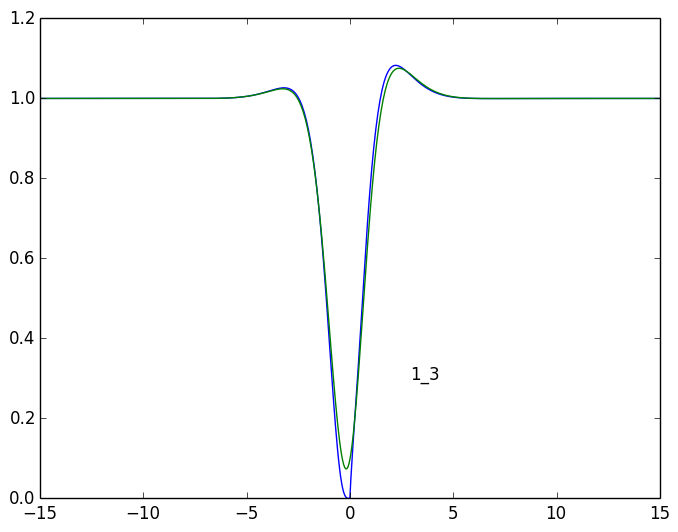
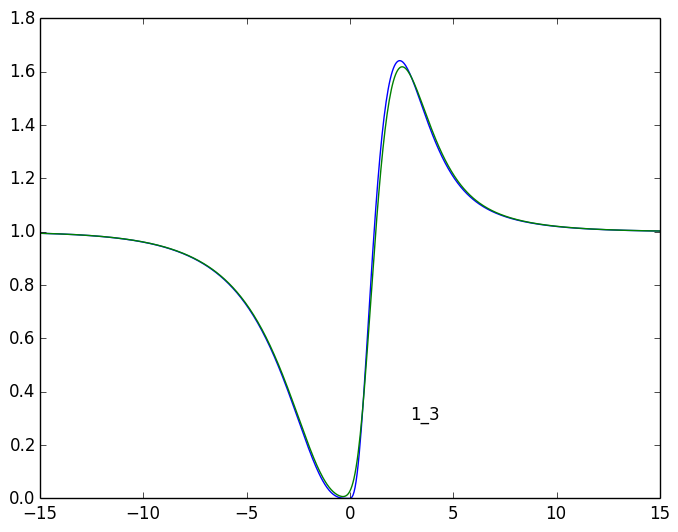
fixed ordering of state in markov expansion

diff --git a/markov.py b/markov.py
@@ -39,7 +39,7 @@ chargedbiexciton = 10
 
 class TransitionMatrix():
 
-    def __init__(self, te=1.0, th=0.4, tpe=0.8, tph=40.0, gsf=4.0, geh=10.0, t001=0.001):
+    def __init__(self, te=4.0, th=4.0, tpe=0.8, tph=10.0, gsf=1000.0, geh=1000.0, t001=0.001):
         # electron hole capture times.
         self.te = te
         self.th = th
@@ -52,7 +52,7 @@ class TransitionMatrix():
         self.geh = geh
 
         # lifetimes.
-        
+
         self.t001 = t001  # excited hole relaxation time.
         self.t110 = 1.66  # exciton lifetime.
         self.t120 = 1.9  # ground trion lifetime.

diff --git a/output/markov.md b/output/markov.md
@@ -3,211 +3,209 @@
 ![](spectral/1_3.png)
 
 ## tau > 0
-	  1 | a:    0.229 +   -0.522i 	 l:   -3.810 +    1.660i
-	  2 | a:    0.229 +    0.522i 	 l:   -3.810 +   -1.660i
-	  3 | a:    1.000 +    0.000i 	 l:    0.000 +    0.000i
-	  5 | a:    0.560 +    0.250i 	 l:   -2.645 +    0.168i
-	  6 | a:    0.560 +   -0.250i 	 l:   -2.645 +   -0.168i
-	  8 | a:   -1.311 +    0.697i 	 l:   -1.276 +   -0.703i
+	  1 | a:    7.341 +    4.342i 	 l:   -1.855 +    0.790i
+	  2 | a:    7.341 +   -4.342i 	 l:   -1.855 +   -0.790i
+	  4 | a:    1.000 +    0.000i 	 l:    0.000 +    0.000i
+	  5 | a:    0.919 +    0.000i 	 l:   -0.388 +    0.000i
+	  6 | a:    0.925 +    0.000i 	 l:   -0.674 +    0.000i
+	  8 | a:   -2.435 +    3.963i 	 l:   -1.069 +   -0.438i
 ## tau < 0
-	  2 | a:   -1.113 +    0.591i 	 l:   -3.810 +   -1.660i
-	  3 | a:    1.000 +   -0.000i 	 l:    0.000 +    0.000i
-	  5 | a:    2.314 +    7.699i 	 l:   -2.645 +    0.168i
-	  6 | a:    2.314 +   -7.699i 	 l:   -2.645 +   -0.168i
-	  7 | a:   -1.597 +    0.202i 	 l:   -1.276 +    0.703i
+	  4 | a:    1.000 +    0.000i 	 l:    0.000 +    0.000i
+	  6 | a:    0.193 +    0.000i 	 l:   -0.674 +    0.000i
+	  7 | a:    1.105 +    0.351i 	 l:   -1.069 +    0.438i
+	  8 | a:    1.105 +   -0.351i 	 l:   -1.069 +   -0.438i
 
 # 3_5
 ![](spectral/3_5.png)
 
 ## tau > 0
-	  2 | a:   -1.878 +    2.789i 	 l:   -3.810 +   -1.660i
-	  3 | a:    1.000 +   -0.000i 	 l:    0.000 +    0.000i
-	  5 | a:    0.356 +    2.026i 	 l:   -2.645 +    0.168i
-	  6 | a:    0.356 +   -2.026i 	 l:   -2.645 +   -0.168i
-	  7 | a:    0.936 +   -0.158i 	 l:   -1.276 +    0.703i
-	  8 | a:    0.936 +    0.158i 	 l:   -1.276 +   -0.703i
-	  9 | a:    0.172 +    0.000i 	 l:   -1.264 +    0.000i
+	  4 | a:    1.000 +    0.000i 	 l:    0.000 +    0.000i
 ## tau < 0
-	  1 | a:    2.188 +   -0.565i 	 l:   -3.810 +    1.660i
-	  2 | a:    2.188 +    0.565i 	 l:   -3.810 +   -1.660i
-	  3 | a:    1.000 +   -0.000i 	 l:    0.000 +    0.000i
-	  4 | a:    1.063 +    0.000i 	 l:   -3.483 +    0.000i
-	  6 | a:   -2.643 +    4.520i 	 l:   -2.645 +   -0.168i
-	  8 | a:   -0.579 +    1.089i 	 l:   -1.276 +   -0.703i
+	  1 | a:    0.488 +   -0.344i 	 l:   -1.855 +    0.790i
+	  2 | a:    0.488 +    0.344i 	 l:   -1.855 +   -0.790i
+	  4 | a:    1.000 +   -0.000i 	 l:    0.000 +    0.000i
+	  7 | a:   -0.384 +    0.715i 	 l:   -1.069 +    0.438i
 
 # 2_3
 ![](spectral/2_3.png)
 
 ## tau > 0
-	  1 | a:    0.626 +   -0.376i 	 l:   -3.810 +    1.660i
-	  2 | a:    0.626 +    0.376i 	 l:   -3.810 +   -1.660i
-	  3 | a:    1.000 +   -0.000i 	 l:    0.000 +    0.000i
-	  5 | a:    0.685 +    1.144i 	 l:   -2.645 +    0.168i
-	  6 | a:    0.685 +   -1.144i 	 l:   -2.645 +   -0.168i
-	  7 | a:    0.539 +    0.235i 	 l:   -1.276 +    0.703i
-	  8 | a:    0.539 +   -0.235i 	 l:   -1.276 +   -0.703i
+	  1 | a:    7.937 +    3.181i 	 l:   -1.855 +    0.790i
+	  2 | a:    7.937 +   -3.181i 	 l:   -1.855 +   -0.790i
+	  3 | a:    2.865 +    0.000i 	 l:   -2.109 +    0.000i
+	  4 | a:    1.000 +    0.000i 	 l:    0.000 +    0.000i
+	  5 | a:    1.111 +    0.000i 	 l:   -0.388 +    0.000i
+	  6 | a:    2.128 +    0.000i 	 l:   -0.674 +    0.000i
+	  7 | a:    0.956 +   -0.141i 	 l:   -1.069 +    0.438i
+	  8 | a:    0.956 +    0.141i 	 l:   -1.069 +   -0.438i
 ## tau < 0
-	  2 | a:   -1.113 +    0.591i 	 l:   -3.810 +   -1.660i
-	  3 | a:    1.000 +   -0.000i 	 l:    0.000 +    0.000i
-	  5 | a:    2.314 +    7.699i 	 l:   -2.645 +    0.168i
-	  6 | a:    2.314 +   -7.699i 	 l:   -2.645 +   -0.168i
-	  7 | a:   -1.597 +    0.202i 	 l:   -1.276 +    0.703i
+	  4 | a:    1.000 +    0.000i 	 l:    0.000 +    0.000i
+	  6 | a:    0.193 +    0.000i 	 l:   -0.674 +    0.000i
+	  7 | a:    1.105 +    0.351i 	 l:   -1.069 +    0.438i
+	  8 | a:    1.105 +   -0.351i 	 l:   -1.069 +   -0.438i
 
 # 1_6
 ![](spectral/1_6.png)
 
 ## tau > 0
-	  2 | a:   -0.062 +    0.245i 	 l:   -3.810 +   -1.660i
-	  3 | a:    1.000 +    0.000i 	 l:    0.000 +    0.000i
-	  4 | a:    0.649 +   -0.000i 	 l:   -3.483 +    0.000i
-	  5 | a:    3.153 +    2.492i 	 l:   -2.645 +    0.168i
-	  6 | a:    3.153 +   -2.492i 	 l:   -2.645 +   -0.168i
-	  7 | a:    3.050 +    2.673i 	 l:   -1.276 +    0.703i
-	  8 | a:    3.050 +   -2.673i 	 l:   -1.276 +   -0.703i
+	  1 | a:   16.959 +   15.653i 	 l:   -1.855 +    0.790i
+	  2 | a:   16.959 +  -15.653i 	 l:   -1.855 +   -0.790i
+	  3 | a:  168.958 +   -0.000i 	 l:   -2.109 +    0.000i
+	  4 | a:    1.000 +    0.000i 	 l:    0.000 +    0.000i
+	  5 | a:    2.742 +    0.000i 	 l:   -0.388 +    0.000i
+	  6 | a:   10.031 +    0.000i 	 l:   -0.674 +    0.000i
+	  7 | a:   33.264 +   36.696i 	 l:   -1.069 +    0.438i
+	  8 | a:   33.264 +  -36.696i 	 l:   -1.069 +   -0.438i
+	  9 | a:   20.749 +   -0.000i 	 l:   -1.165 +    0.000i
 ## tau < 0
-	  2 | a:   -1.113 +    0.591i 	 l:   -3.810 +   -1.660i
-	  3 | a:    1.000 +   -0.000i 	 l:    0.000 +    0.000i
-	  5 | a:    2.314 +    7.699i 	 l:   -2.645 +    0.168i
-	  6 | a:    2.314 +   -7.699i 	 l:   -2.645 +   -0.168i
-	  7 | a:   -1.597 +    0.202i 	 l:   -1.276 +    0.703i
+	  4 | a:    1.000 +    0.000i 	 l:    0.000 +    0.000i
+	  6 | a:    0.193 +    0.000i 	 l:   -0.674 +    0.000i
+	  7 | a:    1.105 +    0.351i 	 l:   -1.069 +    0.438i
+	  8 | a:    1.105 +   -0.351i 	 l:   -1.069 +   -0.438i
 
 # 2_6
 ![](spectral/2_6.png)
 
 ## tau > 0
-	  1 | a:    0.117 +   -0.302i 	 l:   -3.810 +    1.660i
-	  2 | a:    0.117 +    0.302i 	 l:   -3.810 +   -1.660i
-	  3 | a:    1.000 +   -0.000i 	 l:    0.000 +    0.000i
-	  5 | a:    2.500 +    8.368i 	 l:   -2.645 +    0.168i
-	  6 | a:    2.500 +   -8.368i 	 l:   -2.645 +   -0.168i
-	  8 | a:   -1.286 +    0.963i 	 l:   -1.276 +   -0.703i
+	  1 | a:   19.196 +   12.919i 	 l:   -1.855 +    0.790i
+	  2 | a:   19.196 +  -12.919i 	 l:   -1.855 +   -0.790i
+	  4 | a:    1.000 +    0.000i 	 l:    0.000 +    0.000i
+	  5 | a:    3.314 +    0.000i 	 l:   -0.388 +    0.000i
+	  6 | a:   23.070 +    0.000i 	 l:   -0.674 +    0.000i
+	  7 | a:   -9.732 +    3.349i 	 l:   -1.069 +    0.438i
 ## tau < 0
-	  2 | a:   -1.113 +    0.591i 	 l:   -3.810 +   -1.660i
-	  3 | a:    1.000 +   -0.000i 	 l:    0.000 +    0.000i
-	  5 | a:    2.314 +    7.699i 	 l:   -2.645 +    0.168i
-	  6 | a:    2.314 +   -7.699i 	 l:   -2.645 +   -0.168i
-	  7 | a:   -1.597 +    0.202i 	 l:   -1.276 +    0.703i
+	  4 | a:    1.000 +    0.000i 	 l:    0.000 +    0.000i
+	  6 | a:    0.193 +    0.000i 	 l:   -0.674 +    0.000i
+	  7 | a:    1.105 +    0.351i 	 l:   -1.069 +    0.438i
+	  8 | a:    1.105 +   -0.351i 	 l:   -1.069 +   -0.438i
 
 # 4_5
 ![](spectral/4_5.png)
 
 ## tau > 0
-	  1 | a:    2.835 +    0.214i 	 l:   -3.810 +    1.660i
-	  2 | a:    2.835 +   -0.214i 	 l:   -3.810 +   -1.660i
-	  3 | a:    1.000 +    0.000i 	 l:    0.000 +    0.000i
-	  7 | a:    0.503 +    0.186i 	 l:   -1.276 +    0.703i
-	  8 | a:    0.503 +   -0.186i 	 l:   -1.276 +   -0.703i
+	  1 | a:    0.570 +   -0.390i 	 l:   -1.855 +    0.790i
+	  2 | a:    0.570 +    0.390i 	 l:   -1.855 +   -0.790i
+	  4 | a:    1.000 +    0.000i 	 l:    0.000 +    0.000i
+	  5 | a:    0.168 +    0.000i 	 l:   -0.388 +    0.000i
+	  7 | a:    0.270 +   -0.190i 	 l:   -1.069 +    0.438i
+	  8 | a:    0.270 +    0.190i 	 l:   -1.069 +   -0.438i
+	  9 | a:    1.257 +    0.000i 	 l:   -1.165 +    0.000i
 ## tau < 0
-	  2 | a:   -1.774 +    4.548i 	 l:   -3.810 +   -1.660i
-	  3 | a:    1.000 +   -0.000i 	 l:    0.000 +    0.000i
-	  4 | a:   29.973 +    0.000i 	 l:   -3.483 +    0.000i
-	  6 | a:  -12.431 +   14.734i 	 l:   -2.645 +   -0.168i
-	  8 | a:   -1.286 +    1.296i 	 l:   -1.276 +   -0.703i
+	  2 | a:   -0.804 +    0.339i 	 l:   -1.855 +   -0.790i
+	  3 | a:    0.390 +    0.000i 	 l:   -2.109 +    0.000i
+	  4 | a:    1.000 +   -0.000i 	 l:    0.000 +    0.000i
+	  7 | a:    0.989 +    1.854i 	 l:   -1.069 +    0.438i
+	  8 | a:    0.989 +   -1.854i 	 l:   -1.069 +   -0.438i
+	  9 | a:    0.193 +   -0.000i 	 l:   -1.165 +    0.000i
 
 # 1_7
 ![](spectral/1_7.png)
 
 ## tau > 0
-	  2 | a:   -0.062 +    0.245i 	 l:   -3.810 +   -1.660i
-	  3 | a:    1.000 +    0.000i 	 l:    0.000 +    0.000i
-	  4 | a:    0.649 +   -0.000i 	 l:   -3.483 +    0.000i
-	  5 | a:    3.153 +    2.492i 	 l:   -2.645 +    0.168i
-	  6 | a:    3.153 +   -2.492i 	 l:   -2.645 +   -0.168i
-	  7 | a:    3.050 +    2.673i 	 l:   -1.276 +    0.703i
-	  8 | a:    3.050 +   -2.673i 	 l:   -1.276 +   -0.703i
+	  1 | a:   16.959 +   15.653i 	 l:   -1.855 +    0.790i
+	  2 | a:   16.959 +  -15.653i 	 l:   -1.855 +   -0.790i
+	  3 | a:  168.958 +   -0.000i 	 l:   -2.109 +    0.000i
+	  4 | a:    1.000 +    0.000i 	 l:    0.000 +    0.000i
+	  5 | a:    2.742 +    0.000i 	 l:   -0.388 +    0.000i
+	  6 | a:   10.031 +    0.000i 	 l:   -0.674 +    0.000i
+	  7 | a:   33.264 +   36.696i 	 l:   -1.069 +    0.438i
+	  8 | a:   33.264 +  -36.696i 	 l:   -1.069 +   -0.438i
+	  9 | a:   20.749 +   -0.000i 	 l:   -1.165 +    0.000i
 ## tau < 0
-	  3 | a:    1.000 +   -0.000i 	 l:    0.000 +    0.000i
-	  5 | a:    0.539 +    0.293i 	 l:   -2.645 +    0.168i
-	  6 | a:    0.539 +   -0.293i 	 l:   -2.645 +   -0.168i
-	  7 | a:   -0.597 +    1.556i 	 l:   -1.276 +    0.703i
+	  2 | a:   -3.262 +    2.345i 	 l:   -1.855 +   -0.790i
+	  3 | a:    1.923 +    0.000i 	 l:   -2.109 +    0.000i
+	  4 | a:    1.000 +   -0.000i 	 l:    0.000 +    0.000i
+	  5 | a:    1.746 +    0.000i 	 l:   -0.388 +    0.000i
+	  6 | a:    4.208 +    0.000i 	 l:   -0.674 +    0.000i
+	  7 | a:   -2.756 +   11.942i 	 l:   -1.069 +    0.438i
+	  9 | a:    3.159 +   -0.000i 	 l:   -1.165 +    0.000i
 
 # 2_7
 ![](spectral/2_7.png)
 
 ## tau > 0
-	  1 | a:    0.117 +   -0.302i 	 l:   -3.810 +    1.660i
-	  2 | a:    0.117 +    0.302i 	 l:   -3.810 +   -1.660i
-	  3 | a:    1.000 +   -0.000i 	 l:    0.000 +    0.000i
-	  5 | a:    2.500 +    8.368i 	 l:   -2.645 +    0.168i
-	  6 | a:    2.500 +   -8.368i 	 l:   -2.645 +   -0.168i
-	  8 | a:   -1.286 +    0.963i 	 l:   -1.276 +   -0.703i
+	  1 | a:   19.196 +   12.919i 	 l:   -1.855 +    0.790i
+	  2 | a:   19.196 +  -12.919i 	 l:   -1.855 +   -0.790i
+	  4 | a:    1.000 +    0.000i 	 l:    0.000 +    0.000i
+	  5 | a:    3.314 +    0.000i 	 l:   -0.388 +    0.000i
+	  6 | a:   23.070 +    0.000i 	 l:   -0.674 +    0.000i
+	  7 | a:   -9.732 +    3.349i 	 l:   -1.069 +    0.438i
 ## tau < 0
-	  3 | a:    1.000 +   -0.000i 	 l:    0.000 +    0.000i
-	  5 | a:    0.539 +    0.293i 	 l:   -2.645 +    0.168i
-	  6 | a:    0.539 +   -0.293i 	 l:   -2.645 +   -0.168i
-	  7 | a:   -0.597 +    1.556i 	 l:   -1.276 +    0.703i
+	  2 | a:   -3.262 +    2.345i 	 l:   -1.855 +   -0.790i
+	  3 | a:    1.923 +    0.000i 	 l:   -2.109 +    0.000i
+	  4 | a:    1.000 +   -0.000i 	 l:    0.000 +    0.000i
+	  5 | a:    1.746 +    0.000i 	 l:   -0.388 +    0.000i
+	  6 | a:    4.208 +    0.000i 	 l:   -0.674 +    0.000i
+	  7 | a:   -2.756 +   11.942i 	 l:   -1.069 +    0.438i
+	  9 | a:    3.159 +   -0.000i 	 l:   -1.165 +    0.000i
 
 # 3_7
 ![](spectral/3_7.png)
 
 ## tau > 0
-	  1 | a:    0.500 +    0.768i 	 l:   -3.810 +    1.660i
-	  2 | a:    0.500 +   -0.768i 	 l:   -3.810 +   -1.660i
-	  3 | a:    1.000 +   -0.000i 	 l:    0.000 +    0.000i
-	  4 | a:    0.201 +    0.000i 	 l:   -3.483 +    0.000i
-	  5 | a:    0.810 +  -26.149i 	 l:   -2.645 +    0.168i
-	  6 | a:    0.810 +   26.149i 	 l:   -2.645 +   -0.168i
-	  7 | a:   -1.848 +    1.637i 	 l:   -1.276 +    0.703i
+	  1 | a:   -0.013 +    0.696i 	 l:   -1.855 +    0.790i
+	  4 | a:    1.000 +    0.000i 	 l:    0.000 +    0.000i
+	  6 | a:    0.297 +    0.000i 	 l:   -0.674 +    0.000i
+	  7 | a:    2.288 +   -0.403i 	 l:   -1.069 +    0.438i
+	  8 | a:    2.288 +    0.403i 	 l:   -1.069 +   -0.438i
 ## tau < 0
-	  1 | a:    0.175 +    0.703i 	 l:   -3.810 +    1.660i
-	  2 | a:    0.175 +   -0.703i 	 l:   -3.810 +   -1.660i
-	  3 | a:    1.000 +   -0.000i 	 l:    0.000 +    0.000i
-	  6 | a:   -0.256 +    0.165i 	 l:   -2.645 +   -0.168i
-	  8 | a:   -0.419 +    0.837i 	 l:   -1.276 +   -0.703i
+	  1 | a:   -1.609 +    3.162i 	 l:   -1.855 +    0.790i
+	  3 | a:    1.319 +    0.000i 	 l:   -2.109 +    0.000i
+	  4 | a:    1.000 +   -0.000i 	 l:    0.000 +    0.000i
+	  5 | a:    0.732 +    0.000i 	 l:   -0.388 +    0.000i
+	  6 | a:    0.597 +    0.000i 	 l:   -0.674 +    0.000i
+	  8 | a:   -0.160 +    2.301i 	 l:   -1.069 +   -0.438i
 
 # 5_7
 ![](spectral/5_7.png)
 
 ## tau > 0
-	  1 | a:    0.614 +   -0.794i 	 l:   -3.810 +    1.660i
-	  2 | a:    0.614 +    0.794i 	 l:   -3.810 +   -1.660i
-	  3 | a:    1.000 +   -0.000i 	 l:    0.000 +    0.000i
-	  4 | a:   15.055 +    0.000i 	 l:   -3.483 +    0.000i
-	  6 | a:   -9.479 +   32.973i 	 l:   -2.645 +   -0.168i
-	  7 | a:    0.859 +    3.257i 	 l:   -1.276 +    0.703i
-	  8 | a:    0.859 +   -3.257i 	 l:   -1.276 +   -0.703i
+	  1 | a:    1.487 +   -0.633i 	 l:   -1.855 +    0.790i
+	  2 | a:    1.487 +    0.633i 	 l:   -1.855 +   -0.790i
+	  3 | a:    2.926 +    0.000i 	 l:   -2.109 +    0.000i
+	  4 | a:    1.000 +   -0.000i 	 l:    0.000 +    0.000i
+	  7 | a:    2.615 +   -8.238i 	 l:   -1.069 +    0.438i
+	  8 | a:    2.615 +    8.238i 	 l:   -1.069 +   -0.438i
 ## tau < 0
-	  2 | a:   -0.939 +    0.716i 	 l:   -3.810 +   -1.660i
-	  3 | a:    1.000 +   -0.000i 	 l:    0.000 +    0.000i
-	  5 | a:    0.128 +    0.091i 	 l:   -2.645 +    0.168i
-	  6 | a:    0.128 +   -0.091i 	 l:   -2.645 +   -0.168i
-	  7 | a:    0.314 +   -0.931i 	 l:   -1.276 +    0.703i
-	  8 | a:    0.314 +    0.931i 	 l:   -1.276 +   -0.703i
+	  2 | a:   -1.156 +    0.663i 	 l:   -1.855 +   -0.790i
+	  4 | a:    1.000 +   -0.000i 	 l:    0.000 +    0.000i
+	  5 | a:    0.284 +    0.000i 	 l:   -0.388 +    0.000i
+	  6 | a:    0.476 +    0.000i 	 l:   -0.674 +    0.000i
+	  8 | a:   -0.191 +    0.920i 	 l:   -1.069 +   -0.438i
+	  9 | a:    1.050 +   -0.000i 	 l:   -1.165 +    0.000i
 
 # 6_7
 ![](spectral/6_7.png)
 
 ## tau > 0
-	  1 | a:    0.500 +    0.768i 	 l:   -3.810 +    1.660i
-	  2 | a:    0.500 +   -0.768i 	 l:   -3.810 +   -1.660i
-	  3 | a:    1.000 +   -0.000i 	 l:    0.000 +    0.000i
-	  4 | a:    0.201 +    0.000i 	 l:   -3.483 +    0.000i
-	  5 | a:    0.810 +  -26.149i 	 l:   -2.645 +    0.168i
-	  6 | a:    0.810 +   26.149i 	 l:   -2.645 +   -0.168i
-	  7 | a:   -1.848 +    1.637i 	 l:   -1.276 +    0.703i
+	  1 | a:   -0.013 +    0.696i 	 l:   -1.855 +    0.790i
+	  4 | a:    1.000 +    0.000i 	 l:    0.000 +    0.000i
+	  6 | a:    0.297 +    0.000i 	 l:   -0.674 +    0.000i
+	  7 | a:    2.288 +   -0.403i 	 l:   -1.069 +    0.438i
+	  8 | a:    2.288 +    0.403i 	 l:   -1.069 +   -0.438i
 ## tau < 0
-	  1 | a:    0.253 +    0.199i 	 l:   -3.810 +    1.660i
-	  2 | a:    0.253 +   -0.199i 	 l:   -3.810 +   -1.660i
-	  3 | a:    1.000 +   -0.000i 	 l:    0.000 +    0.000i
-	  6 | a:   -1.359 +    1.461i 	 l:   -2.645 +   -0.168i
-	  7 | a:    0.590 +    2.487i 	 l:   -1.276 +    0.703i
-	  8 | a:    0.590 +   -2.487i 	 l:   -1.276 +   -0.703i
+	  1 | a:   -6.052 +    7.454i 	 l:   -1.855 +    0.790i
+	  4 | a:    1.000 +   -0.000i 	 l:    0.000 +    0.000i
+	  5 | a:    2.184 +    0.000i 	 l:   -0.388 +    0.000i
+	  6 | a:    6.476 +    0.000i 	 l:   -0.674 +    0.000i
+	  7 | a:    6.190 +   23.764i 	 l:   -1.069 +    0.438i
+	  8 | a:    6.190 +  -23.764i 	 l:   -1.069 +   -0.438i
+	  9 | a:    8.075 +   -0.000i 	 l:   -1.165 +    0.000i
 
 # 7_5
 ![](spectral/7_5.png)
 
 ## tau > 0
-	  2 | a:   -0.939 +    0.716i 	 l:   -3.810 +   -1.660i
-	  3 | a:    1.000 +   -0.000i 	 l:    0.000 +    0.000i
-	  5 | a:    0.128 +    0.091i 	 l:   -2.645 +    0.168i
-	  6 | a:    0.128 +   -0.091i 	 l:   -2.645 +   -0.168i
-	  7 | a:    0.314 +   -0.931i 	 l:   -1.276 +    0.703i
-	  8 | a:    0.314 +    0.931i 	 l:   -1.276 +   -0.703i
+	  2 | a:   -1.156 +    0.663i 	 l:   -1.855 +   -0.790i
+	  4 | a:    1.000 +   -0.000i 	 l:    0.000 +    0.000i
+	  5 | a:    0.284 +    0.000i 	 l:   -0.388 +    0.000i
+	  6 | a:    0.476 +    0.000i 	 l:   -0.674 +    0.000i
+	  8 | a:   -0.191 +    0.920i 	 l:   -1.069 +   -0.438i
+	  9 | a:    1.050 +   -0.000i 	 l:   -1.165 +    0.000i
 ## tau < 0
-	  1 | a:    0.614 +   -0.794i 	 l:   -3.810 +    1.660i
-	  2 | a:    0.614 +    0.794i 	 l:   -3.810 +   -1.660i
-	  3 | a:    1.000 +   -0.000i 	 l:    0.000 +    0.000i
-	  4 | a:   15.055 +    0.000i 	 l:   -3.483 +    0.000i
-	  6 | a:   -9.479 +   32.973i 	 l:   -2.645 +   -0.168i
-	  7 | a:    0.859 +    3.257i 	 l:   -1.276 +    0.703i
-	  8 | a:    0.859 +   -3.257i 	 l:   -1.276 +   -0.703i
+	  1 | a:    1.487 +   -0.633i 	 l:   -1.855 +    0.790i
+	  2 | a:    1.487 +    0.633i 	 l:   -1.855 +   -0.790i
+	  3 | a:    2.926 +    0.000i 	 l:   -2.109 +    0.000i
+	  4 | a:    1.000 +   -0.000i 	 l:    0.000 +    0.000i
+	  7 | a:    2.615 +   -8.238i 	 l:   -1.069 +    0.438i
+	  8 | a:    2.615 +    8.238i 	 l:   -1.069 +   -0.438i
